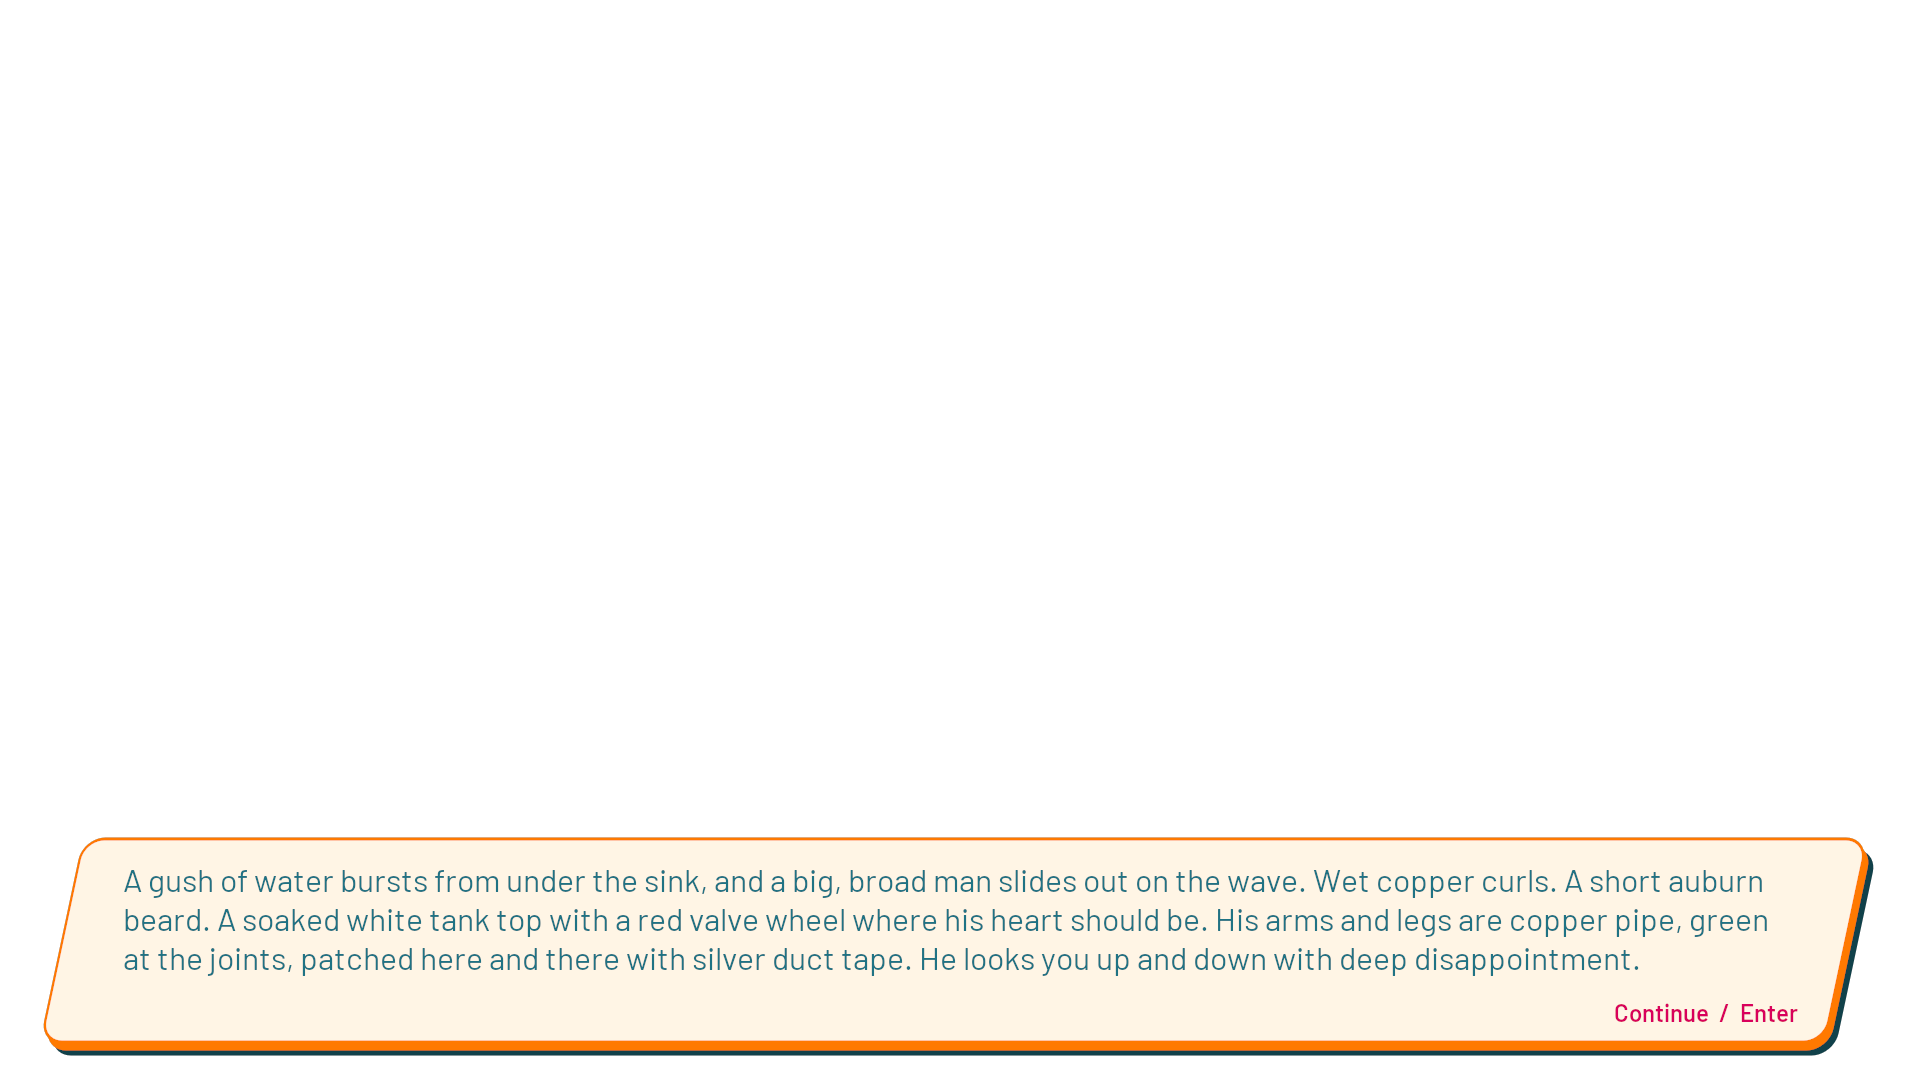
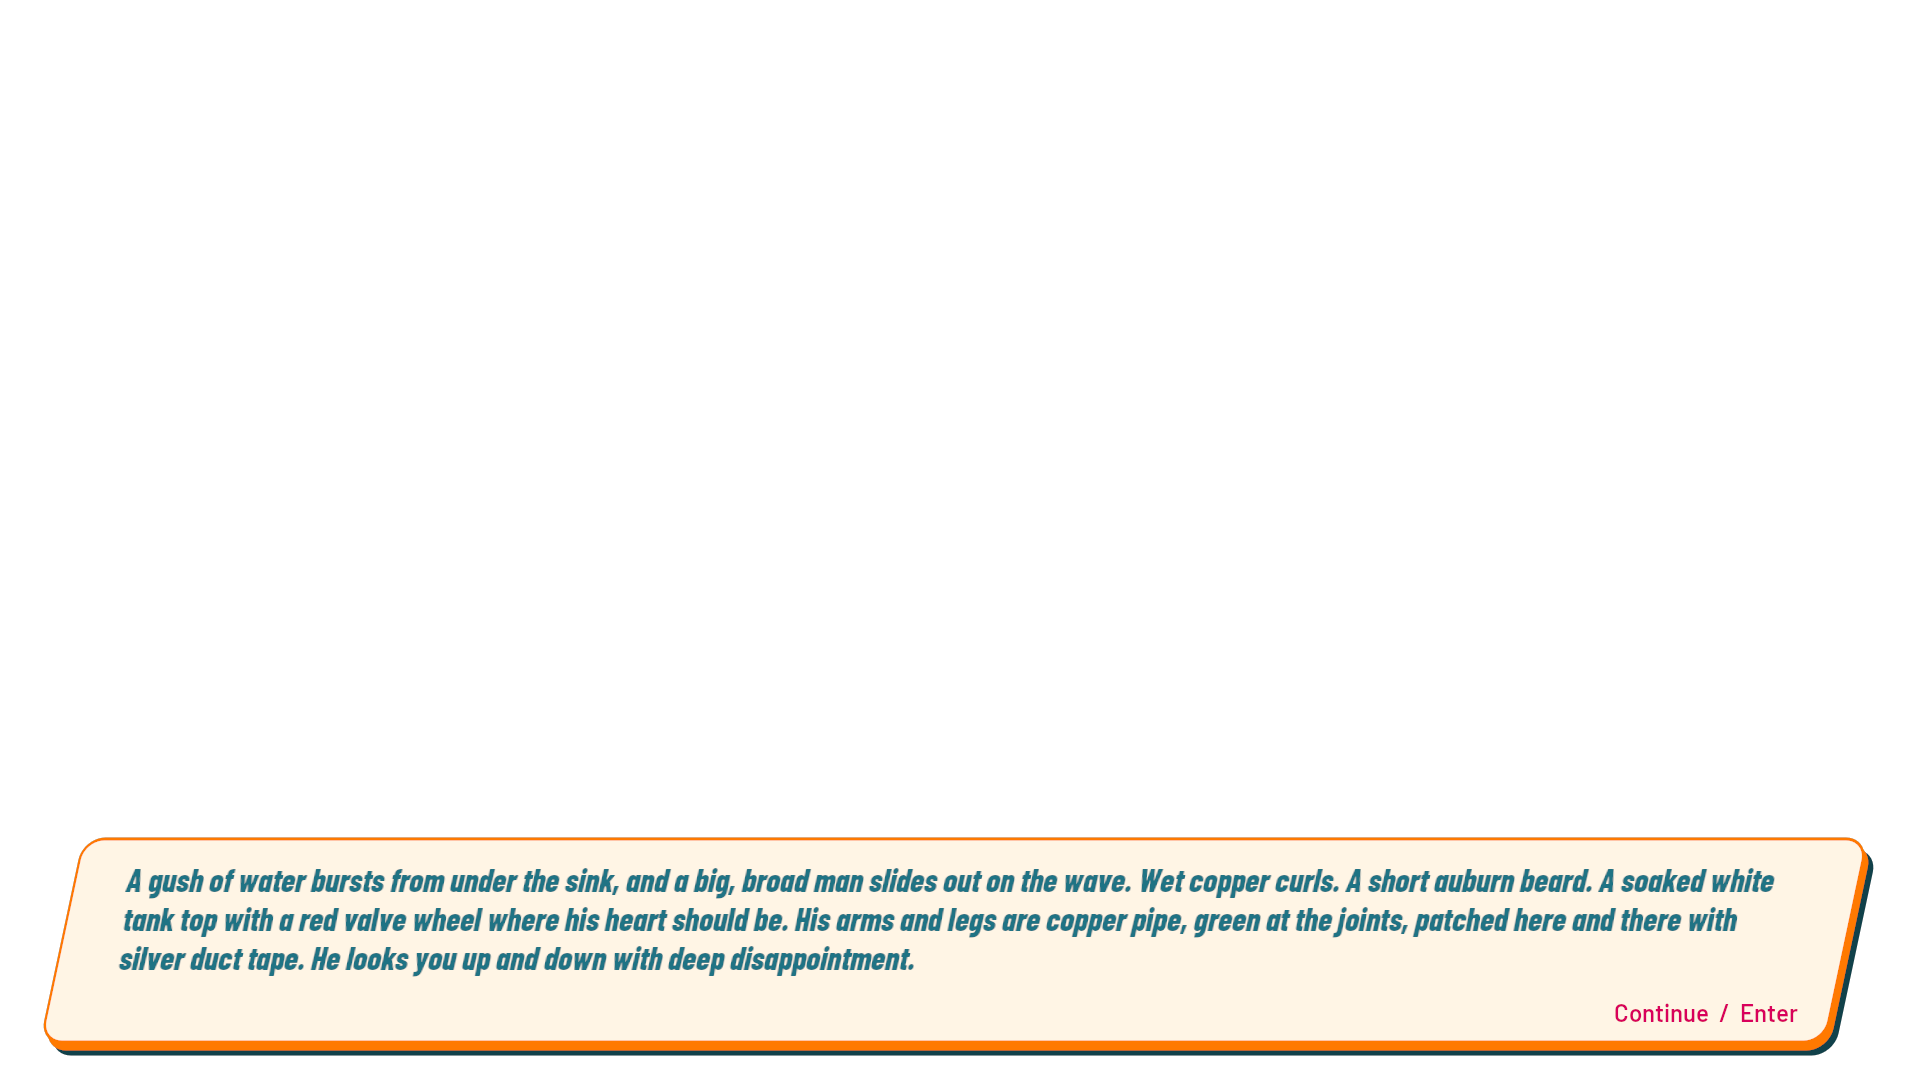
Set narration in the reply face and size

Changed region(s): [[0.0625, 0.7944, 0.9375, 0.9167]]

diff --git a/Source/ICanFixHim/UI/FixHimDialogueWidget.cpp b/Source/ICanFixHim/UI/FixHimDialogueWidget.cpp
@@ -289,11 +289,11 @@ void UFixHimDialogueWidget::ShowView(const FDialogueView &View)
 	const FString PlayerName = SaveSub ? SaveSub->GetPlayerName() : UFixHimSettings::Get()->PlayerName;
 	const FString Speaker = bPlayer ? PlayerName : (bNamed ? View.SpeakerName : View.HunkName);
 	NameText->SetText(FText::FromString(Speaker.ToUpper()));
-	// Spoken lines use the display face, sheared to the 12° grid as one block. Narration stays upright body text.
-	TypingText->SetFont(bNarration ? Font(24, TEXT("Regular")) : Font(FixHimDesign::Line, TEXT("Display")));
+	// Spoken lines and narration share the reply face and size, sheared to the 12° grid as one block.
+	// Narration keeps its teal color to stay distinct from characters.
+	TypingText->SetFont(Font(FixHimDesign::Line, TEXT("Display")));
 	FWidgetTransform LineLean;
-	if (!bNarration)
-		LineLean.Shear = FVector2D(-FMath::RadiansToDegrees(FMath::Atan(FixHimDesign::DisplayShear)), 0);
+	LineLean.Shear = FVector2D(-FMath::RadiansToDegrees(FMath::Atan(FixHimDesign::DisplayShear)), 0);
 	LineArea->SetRenderTransform(LineLean);
 	TypingText->SetColorAndOpacity(FSlateColor(bNarration ? PlumSoft : Plum));
 
@@ -412,9 +412,9 @@ void UFixHimDialogueWidget::BuildWordWrap()
 	WordWrap->ClearChildren();
 	const bool bNarration = Current.Speaker == EDialogueSpeaker::Narration;
 	TWeakObjectPtr<UFixHimDialogueWidget> Self(this);
-	const int32 LineSize = bNarration ? 24 : FixHimDesign::Line;
-	// "Body" resolves to the display face without MakeText's per-widget shear; LineArea leans the whole line.
-	const TCHAR *LineFace = bNarration ? TEXT("Regular") : TEXT("DisplayFace");
+	const int32 LineSize = FixHimDesign::Line;
+	// "DisplayFace" is the display font without MakeText's per-widget shear; LineArea leans the whole line.
+	const TCHAR *LineFace = TEXT("DisplayFace");
 	auto FlowTokens = Tokens;
 	for (int32 TokenIndex = 0; TokenIndex < FlowTokens.Num(); ++TokenIndex)
 	{
@@ -435,7 +435,7 @@ void UFixHimDialogueWidget::BuildWordWrap()
 			Style.SetNormalPadding(FMargin(0));
 			Style.SetPressedPadding(FMargin(0));
 			B->SetStyle(Style);
-			B->Label = MakeText(WidgetTree, Tok.Text, LineSize, HotPink, bNarration ? TEXT("Semibold") : LineFace);
+			B->Label = MakeText(WidgetTree, Tok.Text, LineSize, HotPink, LineFace);
 			B->SetCursor(EMouseCursor::Hand);
 			CastChecked<UButtonSlot>(B->AddChild(B->Label))->SetPadding(FMargin(0));
 			B->SetToolTipText(FText::FromString(TEXT("Ask about this")));

diff --git a/docs/03 Art & Audio/UI Design System.md b/docs/03 Art & Audio/UI Design System.md
@@ -49,8 +49,8 @@ Keep cream reading surfaces, disabled controls and reticles flat. Avoid glossy s
 
 | Role | Font | Treatment |
 |---|---|---|
-| Headings, short display labels, spoken dialogue lines and replies | Barlow Condensed ExtraBold Italic, 800 | Effective 12° right lean |
-| Narration and helper text | Barlow Regular, 400 | Upright |
+| Headings, short display labels, all dialogue text (spoken lines, narration, replies) | Barlow Condensed ExtraBold Italic, 800 | Effective 12° right lean |
+| Helper text | Barlow Regular, 400 | Upright |
 | Body emphasis and stronger labels | Barlow Semibold, 600 | Upright |
 
 Barlow Condensed's native italic lean is 7°. The selected 12° treatment requires an additional synthetic shear on display glyphs, not a different native font variant. Added shear tangent: `tan(12°) - tan(7°) = 0.0897720008`. Text baselines stay horizontal. Spoken lines are sheared as one block, so wrapped lines also step along the grid. Do not skew upright body text or icons.
@@ -164,7 +164,7 @@ The image still has alpha-edge speckling; cleanup and an editable production mas
 
 The shared Unreal components and first screen migration are implemented on `feature/reusable-ui-design-system`. See [[UI Component Library]] for APIs, source files, asset rebuilding, validation and the review captures. The selected palette, licensed fonts/icons and 12° placement grid are reused across screens; new component proportions and screen compositions still await design feedback.
 
-The implementation includes resizable rounded surfaces and asymmetric borders, shared action/reply/topic controls, visible focus/pressed/disabled states, bounded reading areas, sliders/checkboxes, text-size and reduced-motion settings, and an in-engine component workshop (`FixHim.DesignSystem`). Short action labels, spoken dialogue lines and replies use the selected display treatment; narration stays upright. Continue is the primary title action when a save exists. Small status labels use flat or sufficiently dark surfaces; pale relationship colors remain accents beside readable labels.
+The implementation includes resizable rounded surfaces and asymmetric borders, shared action/reply/topic controls, visible focus/pressed/disabled states, bounded reading areas, sliders/checkboxes, text-size and reduced-motion settings, and an in-engine component workshop (`FixHim.DesignSystem`). Short action labels and all dialogue text (spoken lines, narration, replies at 28 units) use the selected display treatment; narration is distinguished by teal color. Continue is the primary title action when a save exists. Small status labels use flat or sufficiently dark surfaces; pale relationship colors remain accents beside readable labels.
 
 ## Remaining work and provenance
 

diff --git a/docs/04 Tech/UI Component Library.md b/docs/04 Tech/UI Component Library.md
@@ -41,7 +41,7 @@ Use the common popup `MakeCardScreen` rather than building a new modal frame per
 
 `UFixHimButton::Make` creates a wrapping labelled action button and accepts its existing callback. `SetVariant(EFixHimButtonVariant)` selects a semantic variant. The legacy boolean overload remains for existing callers. `Label` is available for alignment and content updates.
 
-Short action labels use Barlow Condensed ExtraBold Italic with the shared 12° display treatment. Replies and spoken dialogue lines both use the display face at 28 units; the dialogue line area is sheared as one block so the typewriter and final topic layouts match. Actions have a content-driven height with a 72-unit minimum in menus, allowing enlarged text to grow.
+Short action labels use Barlow Condensed ExtraBold Italic with the shared 12° display treatment. Replies, spoken lines and narration all use the display face at 28 units (narration in teal); the dialogue line area is sheared as one block so the typewriter and final topic layouts match. Actions have a content-driven height with a 72-unit minimum in menus, allowing enlarged text to grow.
 
 States: idle, hover, keyboard/gamepad focus, pressed, selected and disabled. Selected reuses the focus treatment. Shared action buttons show a white contour and diamond on hover/focus; state meaning does not rely on pink alone. Pressing moves the face towards its extrusion; disabled uses neutral surface/ink. No heart is added to a reply to predict relationship outcomes.
 
